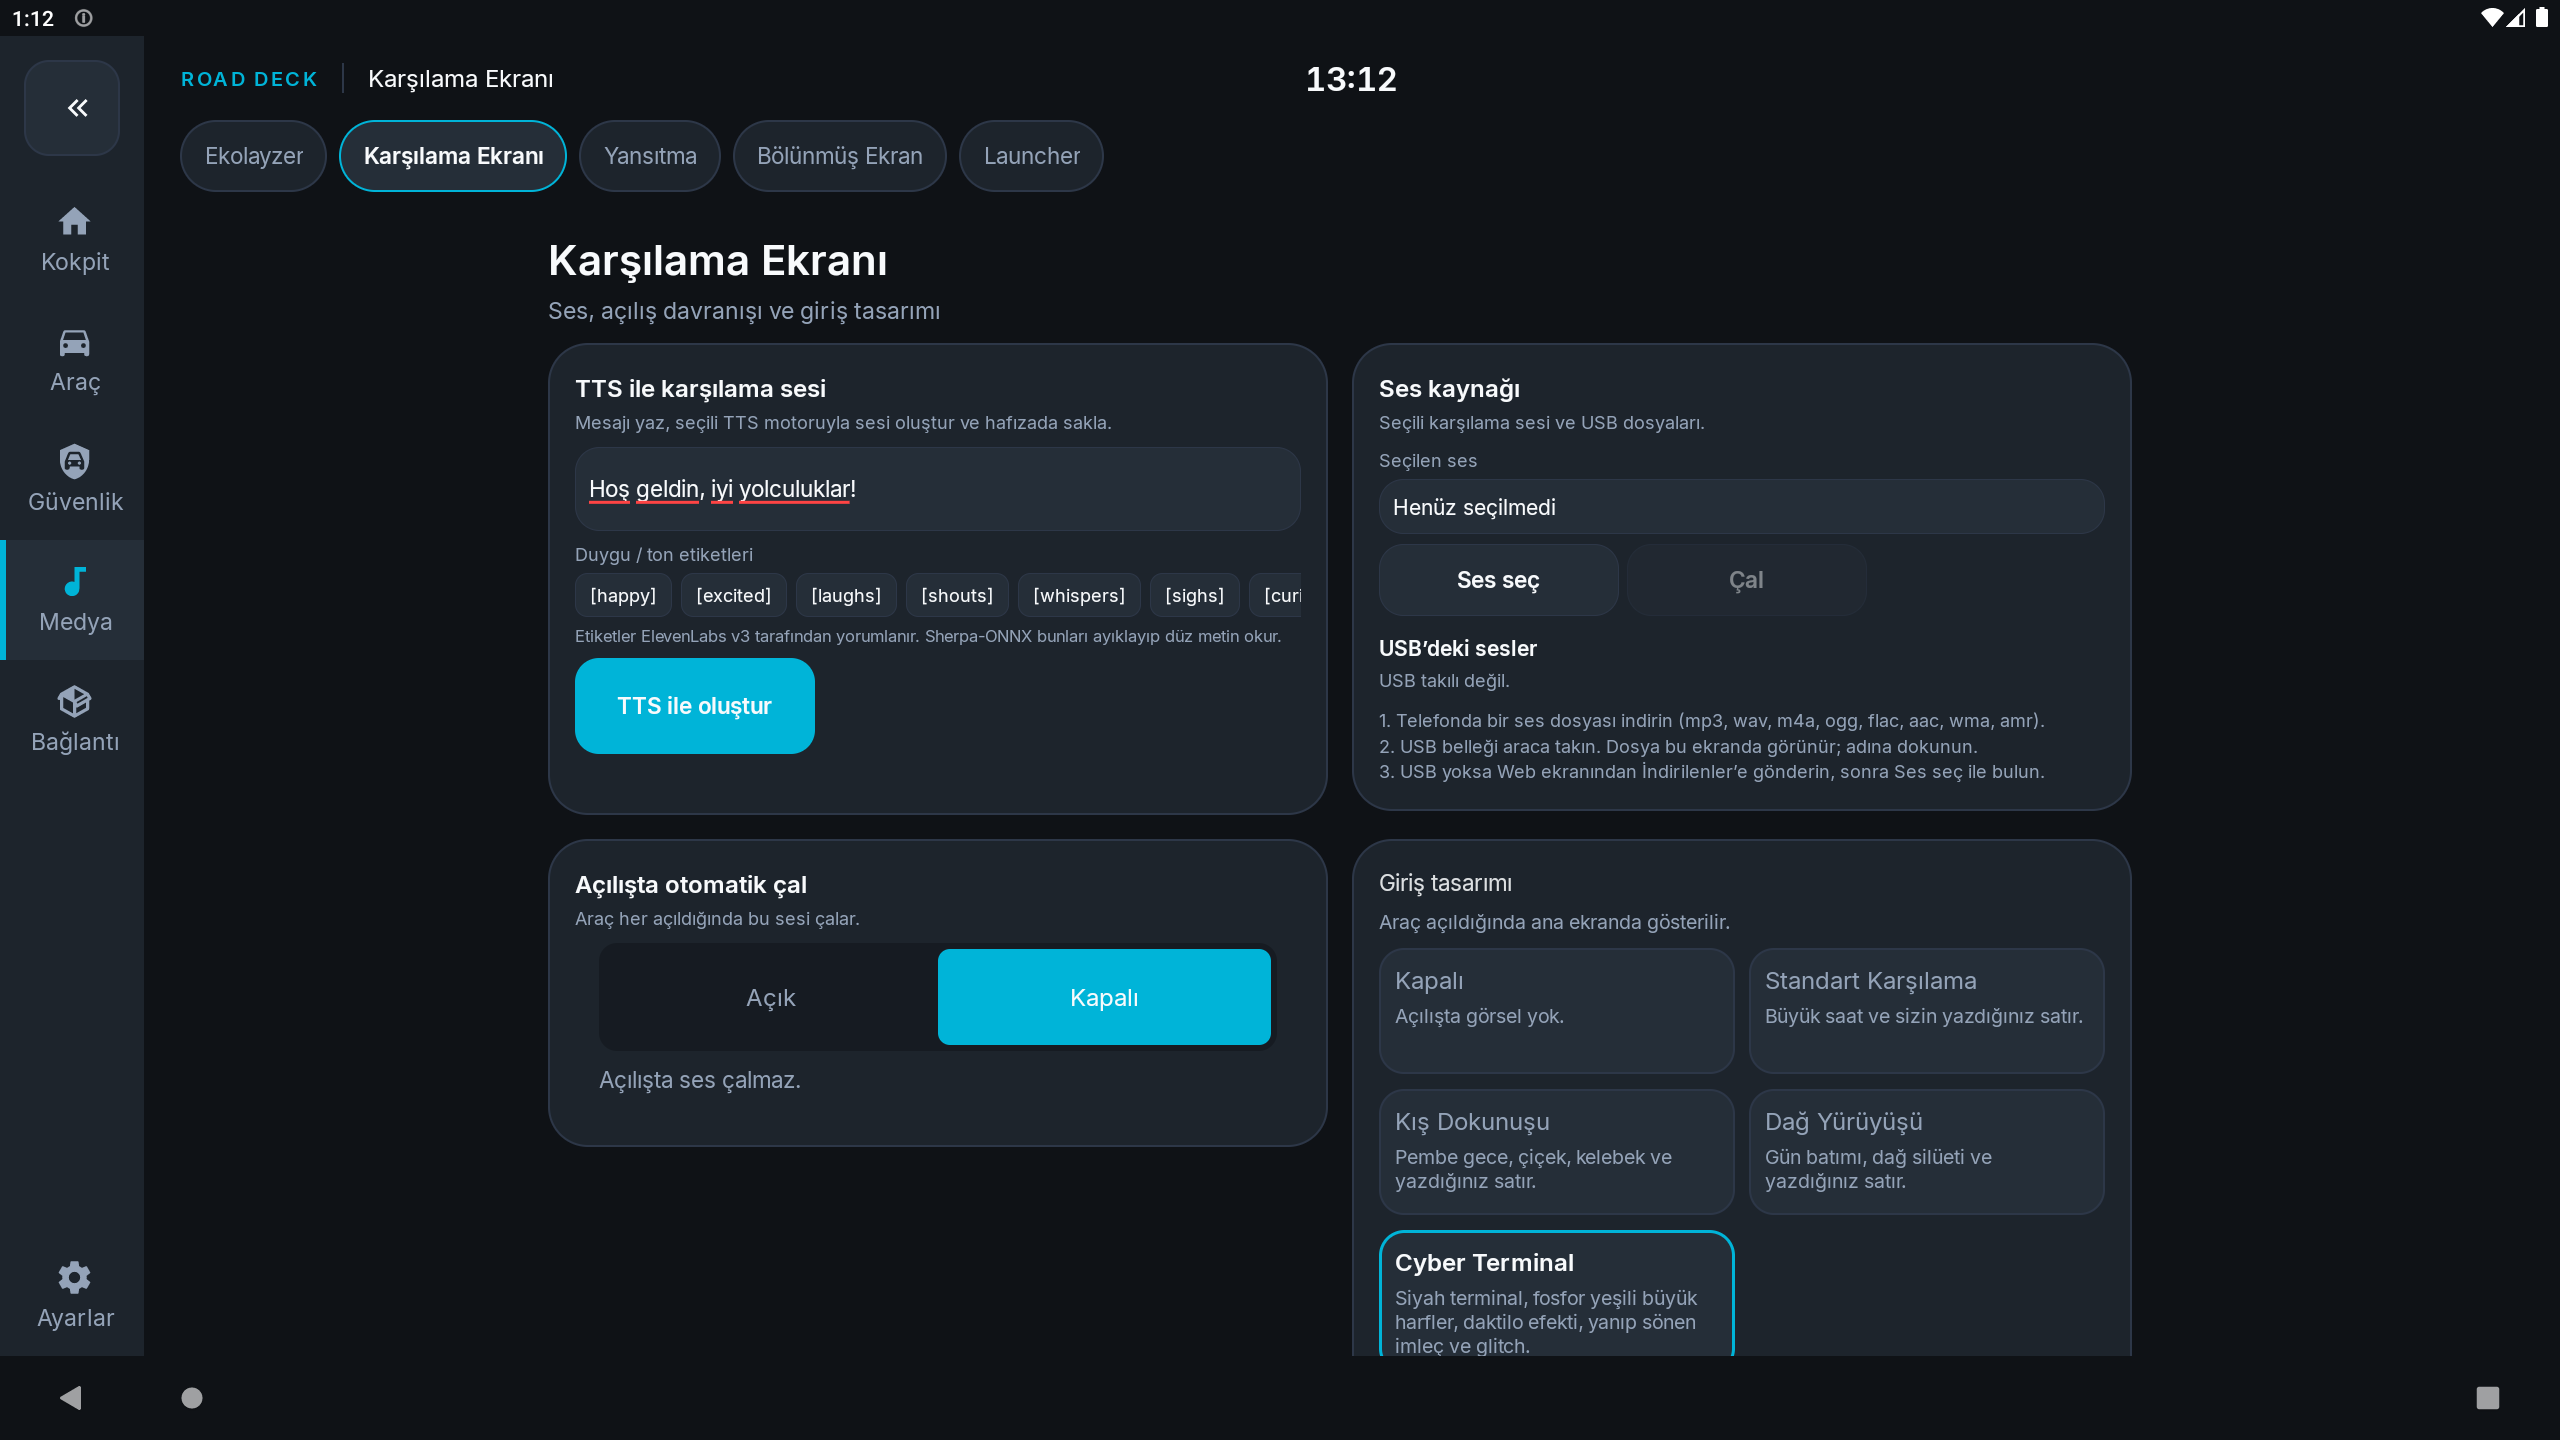
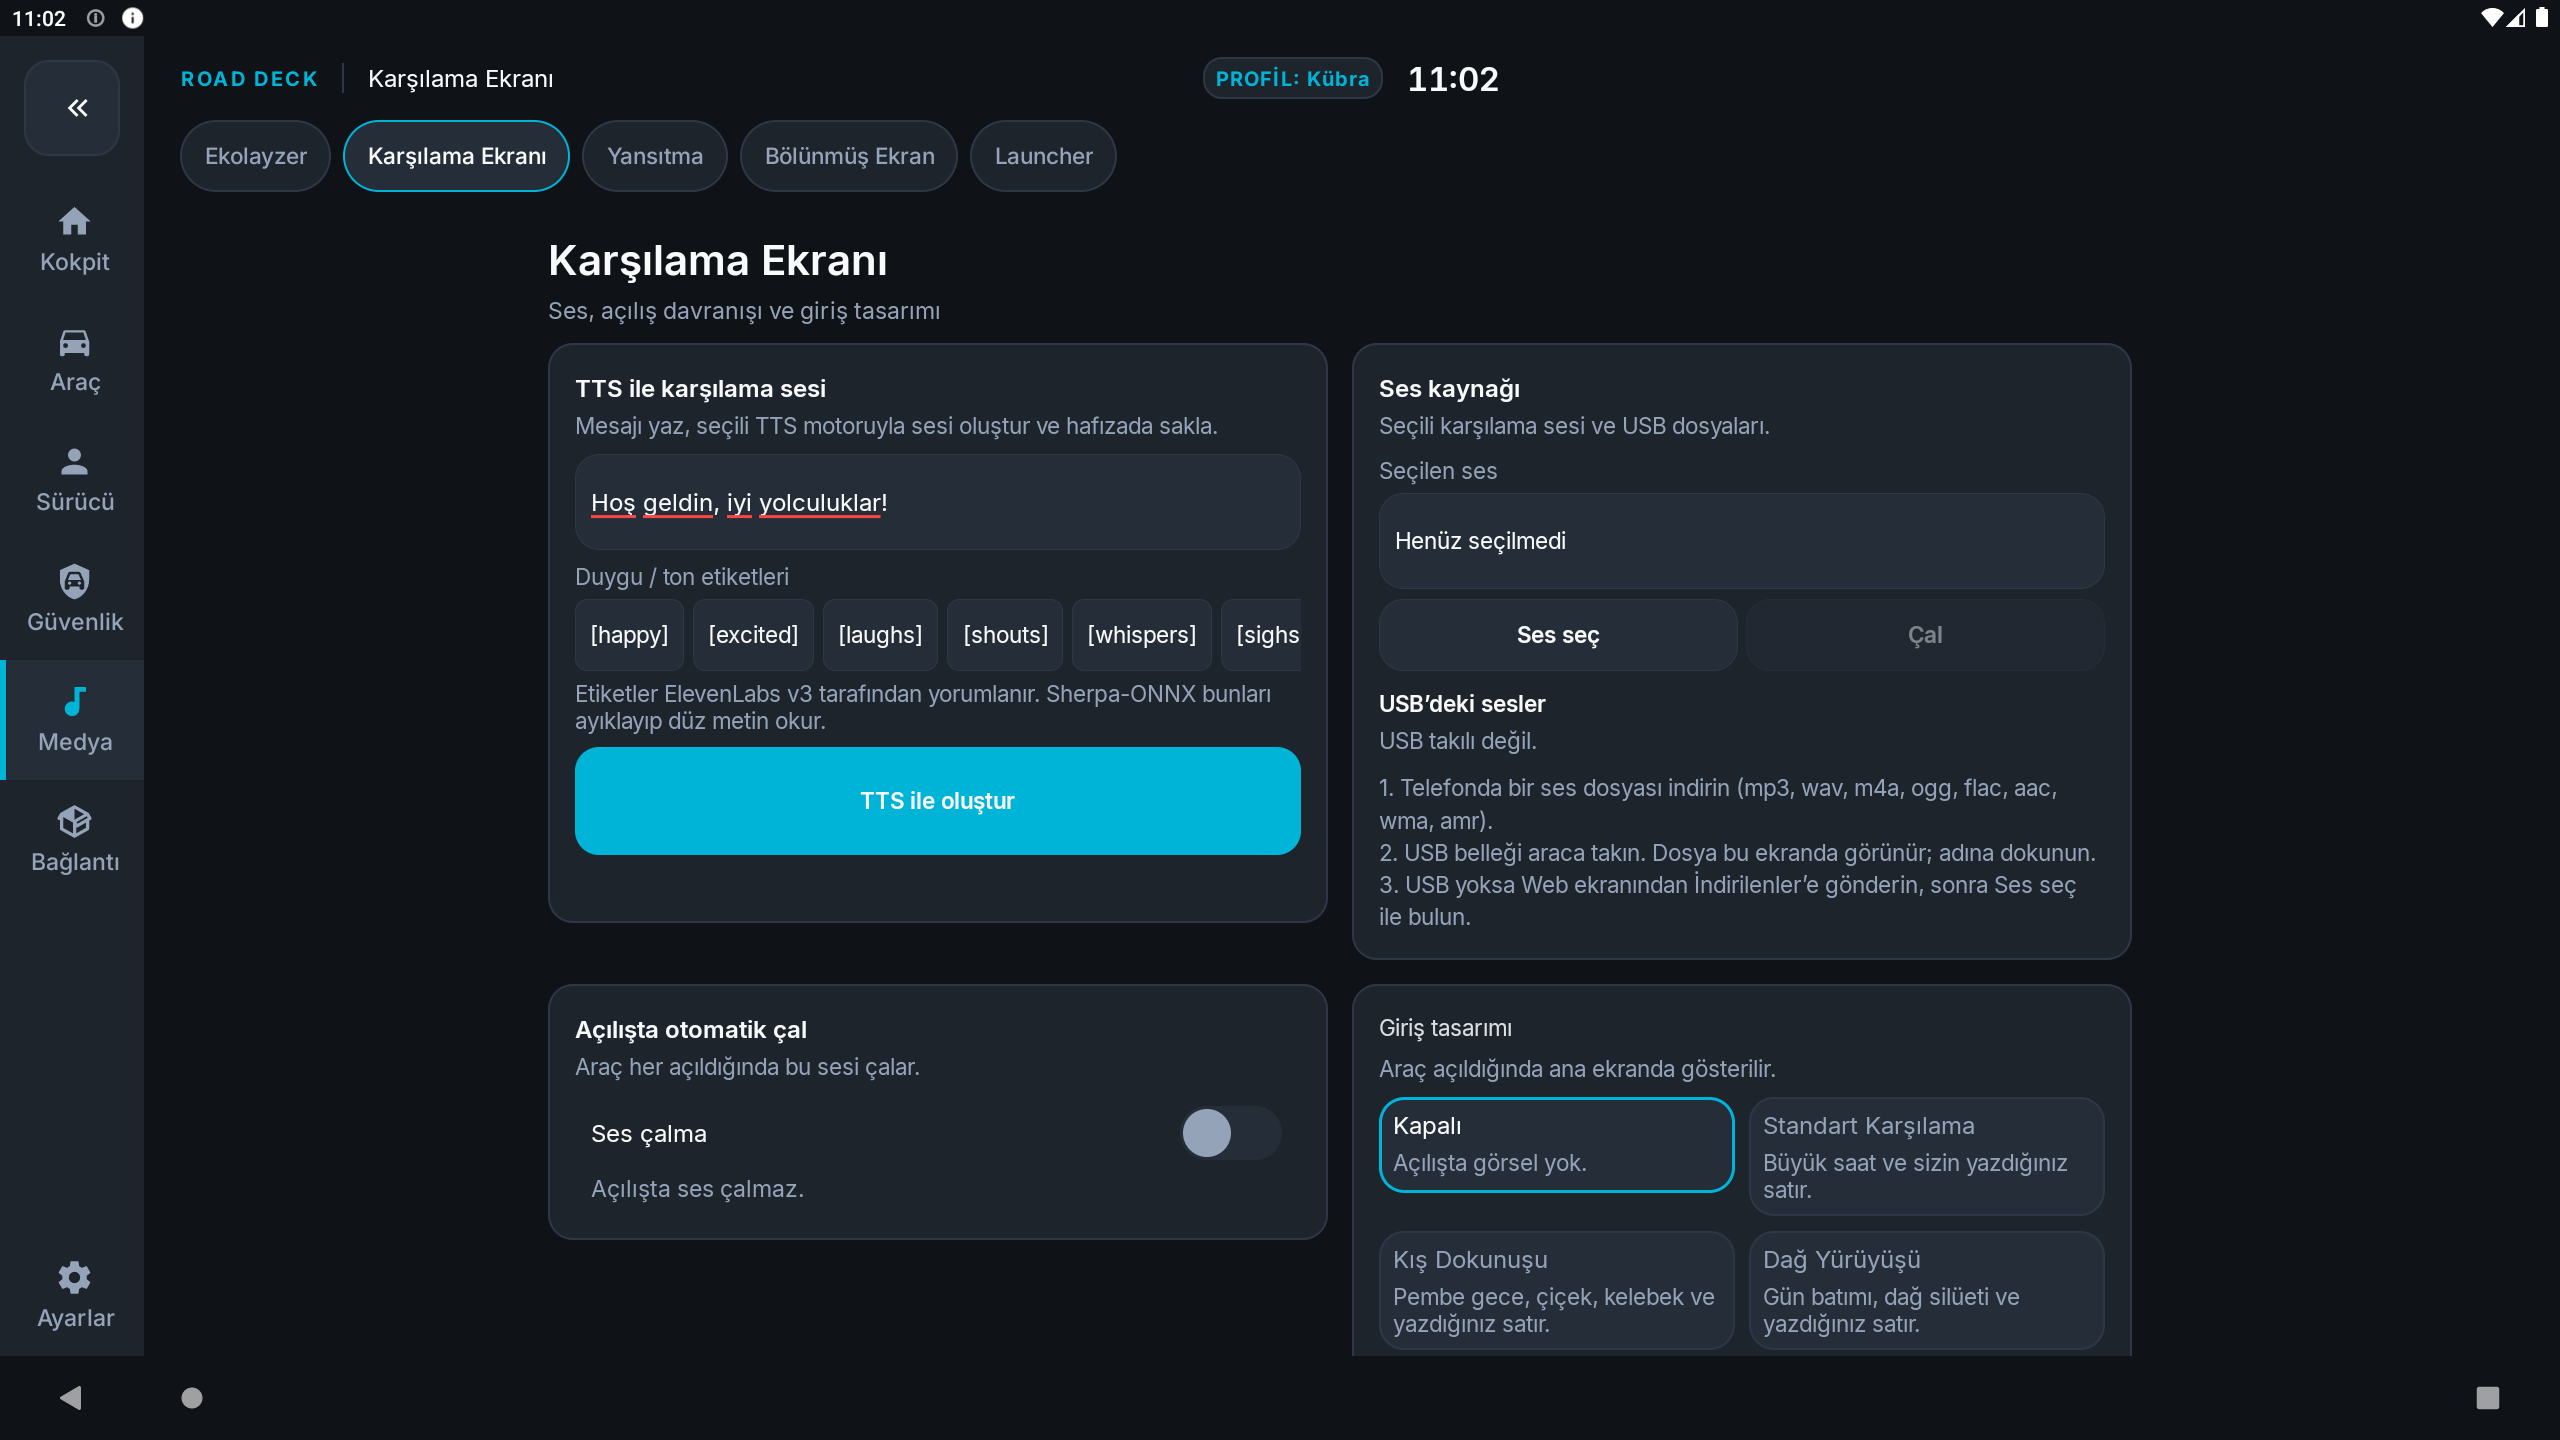
feat: karsilama ekrani ui denetimi ve duzeltmeleri
- Otomatik calma eski segmentten gercek toggle'a cevrildi
- TTS, ses sec/cal ve onizleme aksiyonlari 64dp hedefe cikarildi
- Dosya yolu ve giris alanlari 64dp yukseklige alindi
- Tasarim secici kartlari kompakt hale getirildi
- Tekrarlanan otomatik calma etiketi kaldirildi

diff --git a/app/src/main/java/com/mapcontrol/ui/builder/WelcomeSoundScreenBuilder.java b/app/src/main/java/com/mapcontrol/ui/builder/WelcomeSoundScreenBuilder.java
@@ -20,6 +20,7 @@ import android.widget.TextView;
 
 import com.mapcontrol.R;
 import com.mapcontrol.ui.cockpit.CockpitGrid;
+import com.mapcontrol.ui.cockpit.CockpitToggle;
 import com.mapcontrol.ui.cockpit.CockpitTokens;
 import com.mapcontrol.ui.theme.UiStyles;
 import com.mapcontrol.ui.welcome.WelcomeDesign;
@@ -75,7 +76,8 @@ public final class WelcomeSoundScreenBuilder {
         row.setOrientation(LinearLayout.VERTICAL);
         row.setClickable(true);
         row.setFocusable(true);
-        row.setPadding(16, 14, 16, 14);
+        row.setPadding(16, 18, 16, 18);
+        row.setMinimumHeight(CockpitTokens.dim(context, R.dimen.ck_touch_min));
         TextView title = new TextView(context);
         title.setText(label);
         title.setTextSize(TypedValue.COMPLEX_UNIT_SP, 16);
@@ -143,7 +145,8 @@ public final class WelcomeSoundScreenBuilder {
                 | InputType.TYPE_TEXT_FLAG_CAP_SENTENCES);
         ttsInput.setMinLines(2);
         ttsInput.setMaxLines(4);
-        ttsInput.setPadding(14, 12, 14, 12);
+        ttsInput.setPadding(16, 18, 16, 18);
+        ttsInput.setMinHeight(CockpitTokens.dim(context, R.dimen.ck_touch_min));
         ttsInput.setBackground(fieldBackground(context));
         LinearLayout.LayoutParams ttsInputLp = new LinearLayout.LayoutParams(
                 LinearLayout.LayoutParams.MATCH_PARENT,
@@ -176,6 +179,8 @@ public final class WelcomeSoundScreenBuilder {
             chip.setTextSize(TypedValue.COMPLEX_UNIT_SP, 15);
             chip.setTextColor(primary);
             chip.setPadding(chipPadX, chipPadY, chipPadX, chipPadY);
+            chip.setMinHeight(CockpitTokens.dim(context, R.dimen.ck_chip_h));
+            chip.setGravity(Gravity.CENTER);
             GradientDrawable chipBg = new GradientDrawable();
             chipBg.setColor(UiStyles.color(context, R.color.ck_surface_2));
             chipBg.setCornerRadius(8 * context.getResources().getDisplayMetrics().density);
@@ -205,10 +210,10 @@ public final class WelcomeSoundScreenBuilder {
         LinearLayout ttsGenerateRow = actionButtonRow(context,
                 context.getString(R.string.welcome_tts_generate), true);
         ttsGenerateRow.setMinimumWidth(CockpitTokens.dim(context, R.dimen.ck_action_min_w));
-        ttsGenerateRow.setMinimumHeight(CockpitTokens.dim(context, R.dimen.ck_touch_min));
+        ttsGenerateRow.setMinimumHeight(CockpitTokens.dim(context, R.dimen.ck_touch_primary));
         LinearLayout.LayoutParams ttsGenLp = new LinearLayout.LayoutParams(
-                LinearLayout.LayoutParams.WRAP_CONTENT,
-                LinearLayout.LayoutParams.WRAP_CONTENT);
+                LinearLayout.LayoutParams.MATCH_PARENT,
+                CockpitTokens.dim(context, R.dimen.ck_touch_primary));
         ttsCard.addView(ttsGenerateRow, ttsGenLp);
         TextView ttsStatus = new TextView(context);
         ttsStatus.setTextSize(TypedValue.COMPLEX_UNIT_SP, 15);
@@ -233,7 +238,9 @@ public final class WelcomeSoundScreenBuilder {
         tvFilePath.setText(R.string.welcome_sound_no_file_yet);
         tvFilePath.setTextSize(TypedValue.COMPLEX_UNIT_SP, 15);
         tvFilePath.setTextColor(primary);
-        tvFilePath.setPadding(14, 12, 14, 12);
+        tvFilePath.setPadding(16, 18, 16, 18);
+        tvFilePath.setMinHeight(CockpitTokens.dim(context, R.dimen.ck_touch_min));
+        tvFilePath.setGravity(Gravity.CENTER_VERTICAL);
         tvFilePath.setBackground(fieldBackground(context));
         LinearLayout.LayoutParams filePathParams = new LinearLayout.LayoutParams(
                 LinearLayout.LayoutParams.MATCH_PARENT,
@@ -253,12 +260,10 @@ public final class WelcomeSoundScreenBuilder {
         rowSelect.setMinimumWidth(CockpitTokens.dim(context, R.dimen.ck_action_min_w));
         playbackRow.setMinimumWidth(CockpitTokens.dim(context, R.dimen.ck_action_min_w));
         LinearLayout.LayoutParams selectLp = new LinearLayout.LayoutParams(
-                LinearLayout.LayoutParams.WRAP_CONTENT,
-                LinearLayout.LayoutParams.WRAP_CONTENT);
+                0, LinearLayout.LayoutParams.WRAP_CONTENT, 1f);
         selectLp.setMarginEnd(8);
         LinearLayout.LayoutParams playLp = new LinearLayout.LayoutParams(
-                LinearLayout.LayoutParams.WRAP_CONTENT,
-                LinearLayout.LayoutParams.WRAP_CONTENT);
+                0, LinearLayout.LayoutParams.WRAP_CONTENT, 1f);
         playLp.setMarginStart(0);
         fileActions.addView(rowSelect, selectLp);
         fileActions.addView(playbackRow, playLp);
@@ -301,17 +306,32 @@ public final class WelcomeSoundScreenBuilder {
         LinearLayout behaviorCard = sectionCard(context);
         addSectionHeader(context, behaviorCard,
                 R.string.welcome_sound_autoplay_title, R.string.welcome_sound_autoplay_desc);
-        LinearLayout autoPlayBlock = new LinearLayout(context);
-        autoPlayBlock.setOrientation(LinearLayout.VERTICAL);
-        UiStyles.addBinarySegmentedControl(context, autoPlayBlock,
-                null,
-                context.getString(R.string.welcome_sound_autoplay_on),
-                context.getString(R.string.welcome_sound_autoplay_off),
-                context.getString(R.string.welcome_sound_autoplay_on_help),
-                context.getString(R.string.welcome_sound_autoplay_off_help),
-                autoPlayInitial,
-                onAutoPlayCommitted);
-        behaviorCard.addView(autoPlayBlock);
+        LinearLayout autoPlayRow = new LinearLayout(context);
+        autoPlayRow.setOrientation(LinearLayout.HORIZONTAL);
+        autoPlayRow.setGravity(Gravity.CENTER_VERTICAL);
+        autoPlayRow.setPadding(16, 8, 16, 8);
+        TextView autoPlayLabel = new TextView(context);
+        autoPlayLabel.setText(R.string.welcome_sound_autoplay_toggle);
+        CockpitTokens.bodyMd(autoPlayLabel);
+        autoPlayLabel.setTextColor(UiStyles.color(context, R.color.textPrimary));
+        autoPlayRow.addView(autoPlayLabel, new LinearLayout.LayoutParams(
+                0, LinearLayout.LayoutParams.WRAP_CONTENT, 1f));
+        CockpitToggle autoPlayToggle = new CockpitToggle(context);
+        autoPlayToggle.setChecked(autoPlayInitial, false);
+        autoPlayToggle.setOnCheckedChangeListener((button, checked) -> {
+            onAutoPlayCommitted.accept(checked);
+            callbackAutoPlayHelp(behaviorCard, checked);
+        });
+        autoPlayRow.addView(autoPlayToggle);
+        behaviorCard.addView(autoPlayRow);
+        TextView autoPlayHelp = new TextView(context);
+        autoPlayHelp.setText(context.getString(autoPlayInitial
+                ? R.string.welcome_sound_autoplay_on_help
+                : R.string.welcome_sound_autoplay_off_help));
+        CockpitTokens.bodySm(autoPlayHelp);
+        autoPlayHelp.setTextColor(UiStyles.color(context, R.color.textSecondary));
+        autoPlayHelp.setPadding(16, 0, 16, 8);
+        behaviorCard.addView(autoPlayHelp);
         addCard(context, mainContainer, grid, behaviorCard);
 
         // 4) Giriş tasarımı
@@ -387,6 +407,19 @@ public final class WelcomeSoundScreenBuilder {
         desc.setTextColor(UiStyles.color(context, R.color.textHint));
         desc.setPadding(0, 4, 0, 12);
         card.addView(desc);
+    }
+
+    private static void callbackAutoPlayHelp(LinearLayout card, boolean enabled) {
+        // The helper is the last TextView added to the behavior card.
+        if (card == null || card.getChildCount() == 0) {
+            return;
+        }
+        View last = card.getChildAt(card.getChildCount() - 1);
+        if (last instanceof TextView) {
+            ((TextView) last).setText(enabled
+                    ? R.string.welcome_sound_autoplay_on_help
+                    : R.string.welcome_sound_autoplay_off_help);
+        }
     }
 
     private static LinearLayout actionButtonRow(Context context, String label, boolean primary) {
@@ -479,8 +512,8 @@ public final class WelcomeSoundScreenBuilder {
             row.setOrientation(LinearLayout.VERTICAL);
             row.setClickable(true);
             row.setFocusable(true);
-            row.setPadding(16, 14, 16, 14);
-            row.setMinimumHeight(Math.round(84 * context.getResources().getDisplayMetrics().density));
+            row.setPadding(14, 10, 14, 10);
+            row.setMinimumHeight(CockpitTokens.dim(context, R.dimen.ck_touch_min));
 
             TextView title = new TextView(context);
             title.setText(design.titleRes());
@@ -491,6 +524,8 @@ public final class WelcomeSoundScreenBuilder {
             TextView help = new TextView(context);
             help.setText(design.helpRes());
             help.setTextSize(TypedValue.COMPLEX_UNIT_SP, 15);
+            help.setMaxLines(2);
+            help.setEllipsize(android.text.TextUtils.TruncateAt.END);
             help.setTextColor(secondary);
             help.setPadding(0, 4, 0, 0);
             row.addView(help);
@@ -539,7 +574,8 @@ public final class WelcomeSoundScreenBuilder {
         lineInput.setSingleLine(true);
         lineInput.setInputType(InputType.TYPE_CLASS_TEXT | InputType.TYPE_TEXT_FLAG_CAP_WORDS
                 | InputType.TYPE_TEXT_VARIATION_PERSON_NAME);
-        lineInput.setPadding(16, 16, 16, 16);
+        lineInput.setPadding(16, 18, 16, 18);
+        lineInput.setMinHeight(CockpitTokens.dim(context, R.dimen.ck_touch_min));
         lineInput.setTextColor(primary);
         lineInput.setHintTextColor(UiStyles.color(context, R.color.textHint));
         GradientDrawable inputBg = new GradientDrawable();
@@ -588,9 +624,10 @@ public final class WelcomeSoundScreenBuilder {
         btnPreview.setPadding(24, 16, 24, 16);
         btnPreview.setMinWidth(CockpitTokens.dim(context, R.dimen.ck_action_min_w));
         btnPreview.setMaxWidth(CockpitTokens.dim(context, R.dimen.ck_action_max_w));
+        btnPreview.setMinHeight(CockpitTokens.dim(context, R.dimen.ck_touch_min));
         LinearLayout.LayoutParams previewParams = new LinearLayout.LayoutParams(
-                LinearLayout.LayoutParams.WRAP_CONTENT,
-                LinearLayout.LayoutParams.WRAP_CONTENT);
+                LinearLayout.LayoutParams.MATCH_PARENT,
+                CockpitTokens.dim(context, R.dimen.ck_touch_min));
         previewParams.setMargins(0, 8, 0, 0);
         parent.addView(btnPreview, previewParams);
         return btnPreview;
@@ -609,7 +646,7 @@ public final class WelcomeSoundScreenBuilder {
         LinearLayout row = new LinearLayout(context);
         row.setOrientation(LinearLayout.HORIZONTAL);
         String chars = "çğıİöşüÇĞÖŞÜ";
-        int size = Math.round(42 * context.getResources().getDisplayMetrics().density);
+        int size = Math.round(48 * context.getResources().getDisplayMetrics().density);
         for (int i = 0; i < chars.length(); i++) {
             final String ch = String.valueOf(chars.charAt(i));
             TextView chip = new TextView(context);
